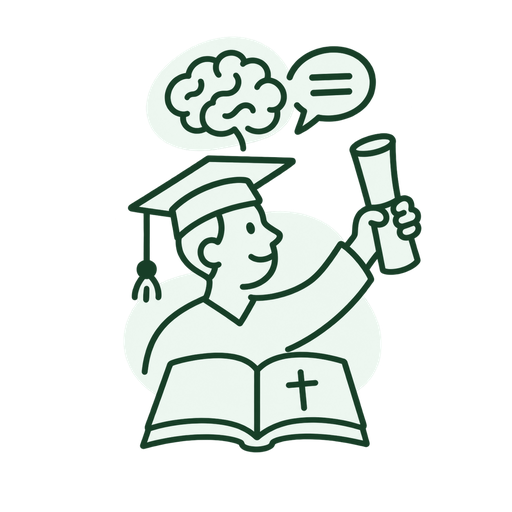
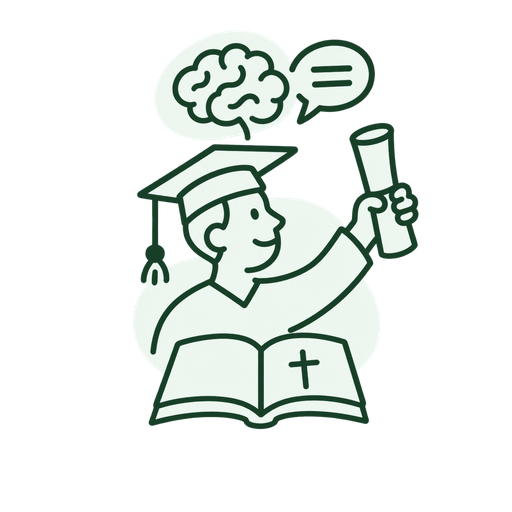
Give the promo cards room to breathe and their art real size
Three things, one of which turned out to be the cause of the other two.

The button sat flush against the last line of the description on a phone.
`mt-auto` was doing the spacing, and it has nothing to distribute there:
the cards are a single column on a phone, so each is sized by its own
content and there is no slack. On a wide screen the grid stretches them to
a shared height, which is why this only ever looked wrong small. The
description now carries a real bottom margin as the floor, with mt-auto
still pushing past it wherever there is room.

The illustrations were unequal in a way no CSS width could fix: academy's
drawing filled 60% of its file and practice's filled 94%, so at the same
width academy rendered visibly smaller and practice crowded the card edge.
Both files are now trimmed to their drawing and re-padded so the art is a
fixed share of the canvas. Equal width finally means equal weight, and the
sizes here are real rather than whatever margin each export happened to
carry. Re-derived from the pre-recolour originals so there is still only
one resize between the source art and what ships.

With that fixed the illustrations could simply be bigger: 29% to 39% of the
card on a phone, 42% to 51% on a wide screen.

The text stays contained throughout. The button label neither wraps nor
shrinks, so its width is the real floor on how narrow the text column can
go — it gives up a little padding on a phone so the illustration can have
[…]

Changed region(s): [[0.25, 0.0625, 0.8438, 0.9062]]

diff --git a/apps/web/src/components/VolunteerPromoCards.tsx b/apps/web/src/components/VolunteerPromoCards.tsx
@@ -46,7 +46,7 @@ function PromoCard({
     <Link
       href={href}
       className={cn(
-        "group shadow-soft ease-calm flex gap-4 rounded-lg p-6 transition-transform duration-200 hover:-translate-y-0.5 sm:p-8",
+        "group shadow-soft ease-calm flex gap-3 rounded-lg p-5 transition-transform duration-200 hover:-translate-y-0.5 sm:gap-4 sm:p-8",
         tone.card,
       )}
     >
@@ -60,12 +60,20 @@ function PromoCard({
         <h3 className="mt-2 min-h-[2.4em] font-serif text-2xl leading-tight sm:text-3xl">
           {title}
         </h3>
-        <p className="mt-3 text-sm opacity-80">{description}</p>
-        {/* Pushed to the bottom so both cards' buttons line up even when
-            their descriptions run to different numbers of lines. */}
+        <p className="mb-6 mt-3 text-sm opacity-80">{description}</p>
+        {/* `mt-auto` lines both cards' buttons up when the grid has stretched
+            them to a shared height; the description's own bottom margin is
+            what keeps the button off the text when it has not — on a phone
+            these stack into one column and each card is sized by its own
+            content, so there is no free space for `auto` to distribute and
+            the button sat flush against the last line.
+
+            The label neither wraps nor shrinks, so its width is the floor on
+            how narrow the text column can go — which is what caps the
+            illustration beside it. */}
         <span
           className={cn(
-            "ease-calm mt-auto inline-flex w-fit items-center gap-2 whitespace-nowrap rounded-md px-5 py-3 text-sm font-medium text-white transition-opacity duration-200 group-hover:opacity-90",
+            "ease-calm mt-auto inline-flex w-fit items-center gap-1.5 whitespace-nowrap rounded-md px-3.5 py-3 text-sm font-medium text-white sm:gap-2 sm:px-5 transition-opacity duration-200 group-hover:opacity-90",
             tone.button,
           )}
         >
@@ -74,12 +82,17 @@ function PromoCard({
         </span>
       </div>
 
+      {/* Both source files were normalised so the drawing fills a fixed
+          share of its canvas — academy's was carrying 40% empty space and
+          rendering visibly smaller than practice at the same width. The
+          size here is therefore real size, and the two stay in proportion
+          with each other. */}
       <Image
         src={image}
         alt=""
-        width={256}
-        height={256}
-        className="w-1/3 shrink-0 self-center sm:w-[45%]"
+        width={320}
+        height={320}
+        className="w-[44%] shrink-0 self-center sm:w-[58%]"
       />
     </Link>
   );
